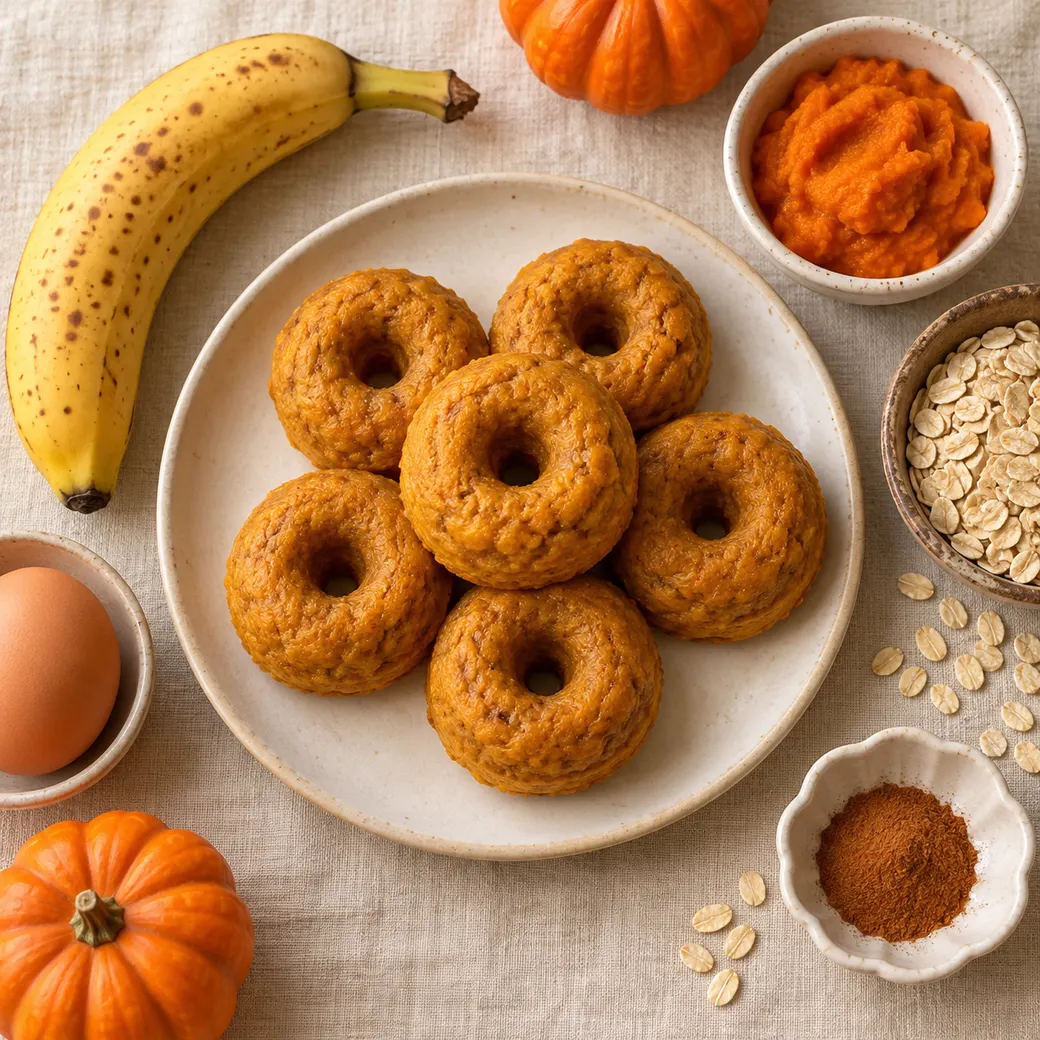
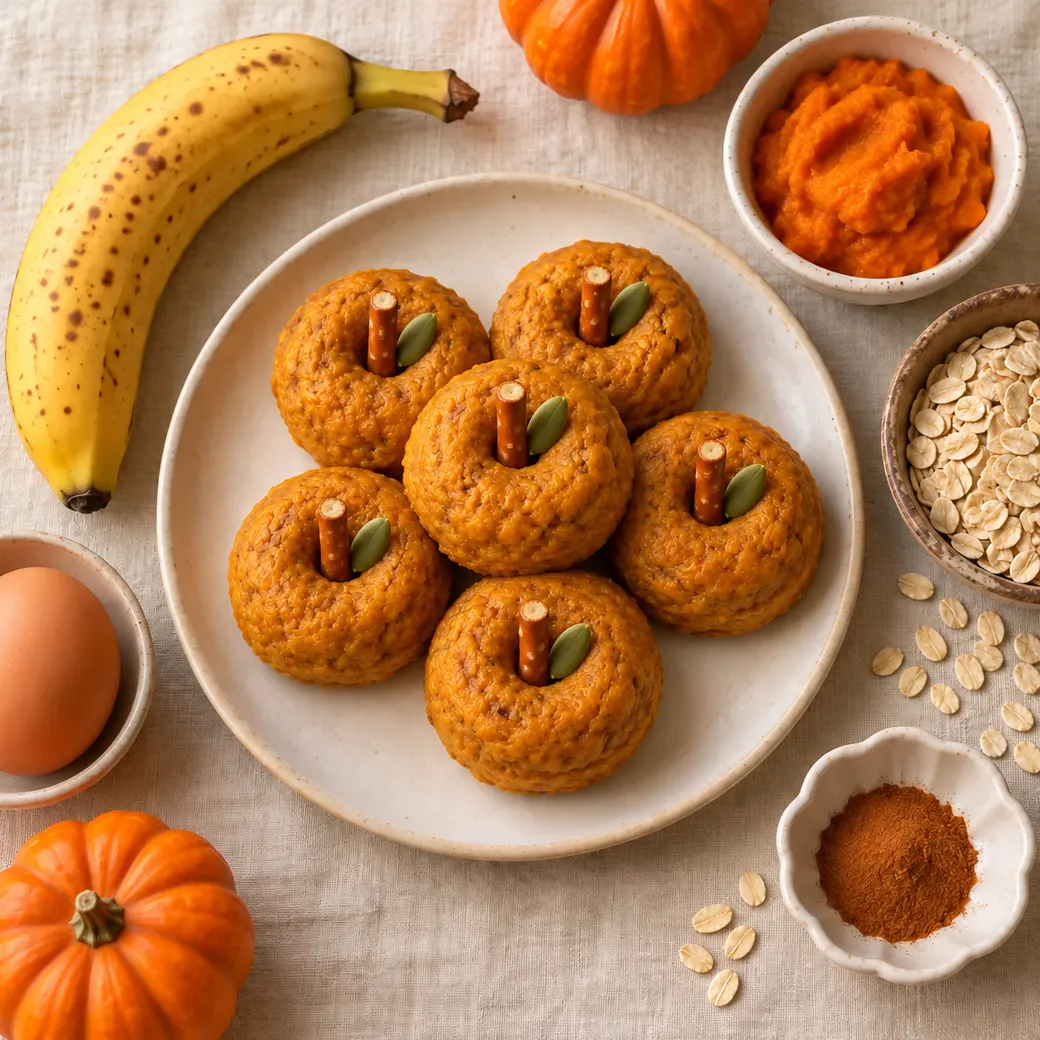
Halloween: Halloween photos first, no number pills, Gummy Worms off the page, three new Halloween looks (#143)
* Halloween: four Halloween photos first, no number pills, Gummy Worms off the page, three new Halloween looks

- Collection grids no longer show a number pill on each recipe photo (every collection).
- The Halloween book page leads with Strawberry Yogurt Ghost Hearts, Jack-o'-Lantern Mango Stars,
  Blueberry Yogurt Bites and Chocolate Pumpkin Protein Tarts.
- Gummy Worms is off the Halloween page (19 recipes shown). Release 1 keeps it, because two paid
  orders protect every delivered recipe, so buyers still find it in their library.
- The make-ahead plan preview swaps Gummy Worms for Protein Fruit Gummies (Friday about 20 min,
  about 1 hour 45 minutes in all). The paid plan in the database is updated to match on deploy.
- Candy Corn Parfaits (ghost faces), Banana Pumpkin Mini Donuts (pretzel stems) and Mini Pumpkin
  Cheesecake Bites (yogurt spiderwebs) get a Halloween photo (ChatGPT Images edit of their own
  photo); the old photo becomes the everyday half of the before-and-after slider. Their Halloween
  step and new times are in the database.

* Tests: the Halloween book page now shows 19 recipes

---------

diff --git a/my-curated-haven-web/src/config/recipe-snapshot.ts b/my-curated-haven-web/src/config/recipe-snapshot.ts
@@ -77,10 +77,10 @@ export const RECIPE_SNAPSHOT: Record<string, RecipeSnapshot> = {
   "veggie-rice-snack-fritters": { title: "Veggie Rice Snack Fritters", minutes: 40, image: "7ba9aed5-da73-42f6-9b1c-7da160fa65f5-v2.png", allergens: ["egg"], freezes: null, tags: { stage: ["1-2y", "2-3y", "3-5y"], meal: ["snack", "lunch"], goal: ["veg-packed", "picky-friendly"], practical: ["make-ahead", "on-the-go"], freeFrom: ["dairy-free", "nut-free", "gluten-free", "vegetarian"] } },
   // Halloween recipes from the owner, added 2026-10-12. Photos live in public/images/recipes/ (a site path,
   // not Supabase Storage). Minutes include required freezing or chilling.
-  "banana-pumpkin-mini-donuts": { title: "Banana Pumpkin Mini Donuts", minutes: 25, image: "/images/recipes/banana-pumpkin-mini-donuts-1040.webp", allergens: ["egg", "wheat"], freezes: "2 months", tags: { stage: ["1-2y", "2-3y"], meal: ["snack", "breakfast"], goal: [], practical: ["freezes", "make-ahead"], freeFrom: ["dairy-free", "nut-free", "vegetarian"] } },
+  "banana-pumpkin-mini-donuts": { title: "Banana Pumpkin Mini Donuts", minutes: 30, image: "/images/recipes/banana-pumpkin-mini-donuts-1040.webp", allergens: ["egg", "wheat"], freezes: "2 months", tags: { stage: ["1-2y", "2-3y"], meal: ["snack", "breakfast"], goal: [], practical: ["freezes", "make-ahead"], freeFrom: ["dairy-free", "nut-free", "vegetarian"] } },
   "sweet-potato-jack-o-lantern-cupcakes": { title: "Sweet Potato Jack-O'-Lantern Cupcakes", minutes: 40, image: "/images/recipes/sweet-potato-jack-o-lantern-cupcakes-1040.webp", allergens: ["egg", "milk", "wheat"], freezes: null, tags: { stage: ["1-2y", "2-3y"], meal: ["snack", "treat"], goal: [], practical: ["make-ahead"], freeFrom: ["nut-free", "vegetarian"] } },
   "berry-ghost-yogurt-bark": { title: "Berry Ghost Yogurt Bark", minutes: 195, image: "/images/recipes/berry-ghost-yogurt-bark-1040.webp", allergens: ["milk"], freezes: "1 month", tags: { stage: ["1-2y", "2-3y"], meal: ["snack", "treat"], goal: [], practical: ["freezes", "make-ahead", "no-cook"], freeFrom: ["egg-free", "nut-free", "gluten-free", "vegetarian"] } },
-  "mini-pumpkin-cheesecake-bites": { title: "Mini Pumpkin Cheesecake Bites", minutes: 125, image: "/images/recipes/mini-pumpkin-cheesecake-bites-1040.webp", allergens: ["egg", "milk", "wheat"], freezes: null, tags: { stage: ["1-2y", "2-3y"], meal: ["snack", "treat"], goal: [], practical: ["make-ahead"], freeFrom: ["nut-free", "vegetarian"] } },
+  "mini-pumpkin-cheesecake-bites": { title: "Mini Pumpkin Cheesecake Bites", minutes: 135, image: "/images/recipes/mini-pumpkin-cheesecake-bites-1040.webp", allergens: ["egg", "milk", "wheat"], freezes: null, tags: { stage: ["1-2y", "2-3y"], meal: ["snack", "treat"], goal: [], practical: ["make-ahead"], freeFrom: ["nut-free", "vegetarian"] } },
   "apple-pie-halloween-pockets": { title: "Apple Pie Halloween Pockets", minutes: 40, image: "/images/recipes/apple-pie-halloween-pockets-1040.webp", allergens: ["egg", "wheat"], freezes: null, tags: { stage: ["1-2y", "2-3y"], meal: ["snack", "treat"], goal: [], practical: ["make-ahead"], freeFrom: ["dairy-free", "nut-free", "vegetarian"] } },
   "jack-o-lantern-peanut-butter-tart": { title: "Jack-O'-Lantern Peanut Butter Tart", minutes: 50, image: "/images/recipes/jack-o-lantern-peanut-butter-tart-1040.webp", allergens: ["peanuts", "milk", "soy"], freezes: null, tags: { stage: ["1-2y", "2-3y"], meal: ["snack", "treat"], goal: [], practical: ["make-ahead", "no-cook"], freeFrom: ["egg-free", "gluten-free", "vegetarian"] } },
   "apple-peanut-butter-smiles": { title: "Apple Peanut Butter Smiles", minutes: 10, image: "/images/recipes/apple-peanut-butter-smiles-1040.webp", allergens: ["peanuts"], freezes: null, tags: { stage: ["1-2y", "2-3y"], meal: ["snack"], goal: [], practical: ["under-15-min", "no-cook"], freeFrom: ["egg-free", "dairy-free", "gluten-free", "vegetarian"] } },
@@ -89,7 +89,7 @@ export const RECIPE_SNAPSHOT: Record<string, RecipeSnapshot> = {
   "mandarin-orange-pumpkins": { title: "Mandarin Orange Pumpkins", minutes: 5, image: "/images/recipes/mandarin-orange-pumpkins-1040.webp", allergens: [], freezes: null, tags: { stage: ["1-2y", "2-3y"], meal: ["snack"], goal: [], practical: ["under-15-min", "no-cook"], freeFrom: ["egg-free", "dairy-free", "nut-free", "gluten-free", "vegetarian", "vegan"] } },
   "monster-energy-balls": { title: "Monster Energy Balls", minutes: 55, image: "/images/recipes/monster-energy-balls-1040.webp", allergens: ["peanuts"], freezes: "2 months", tags: { stage: ["1-2y", "2-3y"], meal: ["snack"], goal: [], practical: ["freezes", "make-ahead", "no-cook"], freeFrom: ["egg-free", "dairy-free", "vegetarian"] } },
   "mummy-banana-pops": { title: "Mummy Banana Pops", minutes: 165, image: "/images/recipes/mummy-banana-pops-1040.webp", allergens: ["milk"], freezes: "1 month", tags: { stage: ["1-2y", "2-3y"], meal: ["snack", "treat"], goal: [], practical: ["freezes", "make-ahead", "no-cook"], freeFrom: ["egg-free", "nut-free", "gluten-free", "vegetarian"] } },
-  "candy-corn-parfaits": { title: "Candy Corn Parfaits", minutes: 10, image: "/images/recipes/candy-corn-parfaits-1040.webp", allergens: ["milk"], freezes: null, tags: { stage: ["1-2y", "2-3y"], meal: ["snack", "treat"], goal: [], practical: ["under-15-min", "no-cook"], freeFrom: ["egg-free", "nut-free", "gluten-free", "vegetarian"] } },
+  "candy-corn-parfaits": { title: "Candy Corn Parfaits", minutes: 12, image: "/images/recipes/candy-corn-parfaits-1040.webp", allergens: ["milk"], freezes: null, tags: { stage: ["1-2y", "2-3y"], meal: ["snack", "treat"], goal: [], practical: ["under-15-min", "no-cook"], freeFrom: ["egg-free", "nut-free", "gluten-free", "vegetarian"] } },
   "gummy-worms": { title: "Gummy Worms", minutes: 130, image: "/images/recipes/gummy-worms-1040.webp", allergens: [], freezes: null, tags: { stage: ["1-2y", "2-3y"], meal: ["snack"], goal: [], practical: ["make-ahead"], freeFrom: ["egg-free", "dairy-free", "nut-free", "gluten-free"] } },
   "protein-fruit-gummies": { title: "Protein Fruit Gummies", minutes: 135, image: "/images/recipes/protein-fruit-gummies-1040.webp", allergens: [], freezes: null, tags: { stage: ["1-2y", "2-3y"], meal: ["snack"], goal: [], practical: ["make-ahead"], freeFrom: ["egg-free", "dairy-free", "nut-free", "gluten-free"] } },
   "spider-peanut-butter-oat-bites": { title: "Spider Peanut Butter Oat Bites", minutes: 50, image: "/images/recipes/spider-peanut-butter-oat-bites-1040.webp", allergens: ["peanuts", "milk"], freezes: "2 months", tags: { stage: ["1-2y", "2-3y"], meal: ["snack", "treat"], goal: [], practical: ["freezes", "make-ahead", "no-cook"], freeFrom: ["egg-free", "vegetarian"] } },

diff --git a/my-curated-haven-web/src/config/everyday-photos.ts b/my-curated-haven-web/src/config/everyday-photos.ts
@@ -4,9 +4,10 @@
  * step taken out, so the two halves line up. A recipe listed here shows the slider in place
  * of its single photo; every other recipe keeps the photo.
  *
- * Only recipes with a real Halloween step are here. The banana pumpkin mini donuts, mini
- * pumpkin cheesecake bites, candy corn parfaits, gummy worms and protein fruit gummies look
- * the same every day, so they have no everyday photo. Sources: docs/implementation/instagram-landing/HALLOWEEN.md.
+ * Only recipes with a real Halloween step are here. Gummy worms and protein fruit gummies look
+ * the same every day, so they have no everyday photo. The donuts, cheesecake bites and parfaits
+ * got their Halloween step on 2026-10-14; their old photo is now the everyday one.
+ * Sources: docs/implementation/instagram-landing/HALLOWEEN.md.
  */
 
 const DIR = "/images/recipes/everyday";
@@ -24,11 +25,14 @@ export const EVERYDAY_PHOTOS: Readonly<Record<string, EverydayPhoto>> = {
   "spider-cracker-bites": photo("spider-cracker-bites", "The same cream cheese cracker sandwiches without legs or eyes"),
   "apple-peanut-butter-smiles": photo("apple-peanut-butter-smiles", "The same apple and peanut butter sandwiches, closed, without the strawberry tongues or apple teeth"),
   "apple-pie-halloween-pockets": photo("apple-pie-halloween-pockets", "The same apple hand pies cut as plain rounds instead of pumpkins"),
+  "banana-pumpkin-mini-donuts": photo("banana-pumpkin-mini-donuts", "The same banana pumpkin donuts without the pretzel stems or seed leaves"),
   "blueberry-yogurt-bites": photo("blueberry-yogurt-bites", "The same blueberry yogurt bites without the white chocolate spiderwebs"),
+  "candy-corn-parfaits": photo("candy-corn-parfaits", "The same parfaits with a plain whipped topping and coconut, without the ghost faces"),
   "chocolate-pumpkin-protein-tarts": photo("chocolate-pumpkin-protein-tarts", "The same chocolate pumpkin tarts without the jack-o'-lantern faces"),
   "jack-o-lantern-mango-stars": photo("jack-o-lantern-mango-stars", "The same mango stars without the chocolate faces or kiwi stems"),
   "jack-o-lantern-peanut-butter-tart": photo("jack-o-lantern-peanut-butter-tart", "The same peanut butter cups without the faces"),
   "mandarin-orange-pumpkins": photo("mandarin-orange-pumpkins", "The same peeled mandarins without the celery stems"),
+  "mini-pumpkin-cheesecake-bites": photo("mini-pumpkin-cheesecake-bites", "The same cheesecake bites with a plain cream cheese swirl, without the spiderwebs"),
   "monster-energy-balls": photo("monster-energy-balls", "The same green energy balls without the eyes"),
   "spider-peanut-butter-oat-bites": photo("spider-peanut-butter-oat-bites", "The same peanut butter oat bites without the chocolate legs or eyes"),
   "strawberry-yogurt-ghost-hearts": photo("strawberry-yogurt-ghost-hearts", "The same strawberry yogurt hearts without the white chocolate ghosts"),

diff --git a/my-curated-haven-web/src/config/collections.ts b/my-curated-haven-web/src/config/collections.ts
@@ -466,7 +466,7 @@ export const SHOWROOM_COLLECTIONS: readonly ShowroomCollection[] = [
     cover: cover("fruit-gummies", 1412, "A berry-red cloth cookbook with a gold-foil gummy mould, heart and star gummies and a strawberry on its cover"),
     refresh: "",
     placeholderPrice: "$6.99",
-    // Placed 2026-10-14: both are also in the Halloween book.
+    // Placed 2026-10-14: both are in the Halloween book's release (Gummy Worms no longer shows on its page).
     recipes: recipes(["gummy-worms", "protein-fruit-gummies"]),
   },
   {
@@ -514,7 +514,13 @@ export const SHOWROOM_COLLECTIONS: readonly ShowroomCollection[] = [
     // Shown only if the live offer can't be read. Owner moved the price from $6.99 to $5.99 on 2026-10-13.
     placeholderPrice: "$5.99",
     // Replaced on 2026-10-12 with the owner's 20 Halloween recipes (above the 8–12 guideline in COLLECTIONS.md, by choice).
+    // 2026-10-14, owner: the four most Halloween-looking photos lead, and Gummy Worms is off this page. Release 1
+    // still holds it (two paid orders), so buyers keep it in their library.
     recipes: recipes([
+      "strawberry-yogurt-ghost-hearts",
+      "jack-o-lantern-mango-stars",
+      "blueberry-yogurt-bites",
+      "chocolate-pumpkin-protein-tarts",
       "berry-ghost-yogurt-bark",
       "mummy-banana-pops",
       "spider-cracker-bites",
@@ -528,13 +534,8 @@ export const SHOWROOM_COLLECTIONS: readonly ShowroomCollection[] = [
       "apple-peanut-butter-smiles",
       "monster-energy-balls",
       "candy-corn-parfaits",
-      "gummy-worms",
       "protein-fruit-gummies",
       "spider-peanut-butter-oat-bites",
-      "strawberry-yogurt-ghost-hearts",
-      "jack-o-lantern-mango-stars",
-      "blueberry-yogurt-bites",
-      "chocolate-pumpkin-protein-tarts",
     ]),
   },
   {

diff --git a/my-curated-haven-web/src/config/halloween.ts b/my-curated-haven-web/src/config/halloween.ts
@@ -223,12 +223,12 @@ export const HALLOWEEN_MAKE_AHEAD_PLAN: MakeAheadPlanEntry = {
   preview: {
     byline: "Inside the Halloween book",
     title: "Your Halloween make-ahead plan",
-    lede: "A party menu of 6 recipes, made across three short sessions so Saturday is calm. About 1 hour 40 minutes of cooking in all, and one shopping list.",
+    lede: "A party menu of 6 recipes, made across three short sessions so Saturday is calm. About 1 hour 45 minutes of cooking in all, and one shopping list.",
     menuHeading: "The party menu",
     menu: [
       { slug: "berry-ghost-yogurt-bark", name: "Berry Ghost Yogurt Bark" },
       { slug: "mummy-banana-pops", name: "Mummy Banana Pops" },
-      { slug: "gummy-worms", name: "Gummy Worms" },
+      { slug: "protein-fruit-gummies", name: "Protein Fruit Gummies" },
       { slug: "witchs-broomsticks", name: "Witch’s Broomsticks" },
       { slug: "spider-cracker-bites", name: "Spider Cracker Bites" },
       { slug: "mandarin-orange-pumpkins", name: "Mandarin Orange Pumpkins" },
@@ -236,7 +236,7 @@ export const HALLOWEEN_MAKE_AHEAD_PLAN: MakeAheadPlanEntry = {
     daysHeading: "Three short sessions",
     days: [
       { dow: "Thu", dom: "29", mon: "Oct", heading: "Freezer night", time: "About 45 min", pill: "freezer" },
-      { dow: "Fri", dom: "30", mon: "Oct", heading: "Fridge day", time: "About 15 min", pill: "fridge" },
+      { dow: "Fri", dom: "30", mon: "Oct", heading: "Fridge day", time: "About 20 min", pill: "fridge" },
       { dow: "Sat", dom: "31", mon: "Oct", heading: "Halloween", time: "About 40 min", pill: "fresh" },
     ],
   },

diff --git a/my-curated-haven-web/tests/e2e/make-ahead-plan.spec.ts b/my-curated-haven-web/tests/e2e/make-ahead-plan.spec.ts
@@ -65,7 +65,7 @@ async function expectPreviewOnly(page: Page) {
   await expect(page.getByText("Spider Cracker Bites")).toBeVisible();
   await expect(page.getByRole("heading", { name: "In the Halloween book" })).toBeVisible();
   await expect(page.getByRole("button", { name: /Buy (now|Collection)/ })).toBeVisible();
-  await expect(page.getByRole("link", { name: "See all 20 recipes" })).toHaveAttribute("href", "/collections/halloween");
+  await expect(page.getByRole("link", { name: "See all 19 recipes" })).toHaveAttribute("href", "/collections/halloween");
   await expect(page.getByRole("checkbox")).toHaveCount(0);
   const rendered = await page.content();
   for (const paid of PAID) expect(rendered, paid).not.toContain(paid);

diff --git a/my-curated-haven-web/src/components/collections/CollectionDetail.tsx b/my-curated-haven-web/src/components/collections/CollectionDetail.tsx
@@ -180,9 +180,6 @@ export function Contents({ model }: { model: DetailModel }) {
                   {recipe.image ? (
                     <Image src={recipe.image} alt="" fill sizes="(min-width: 1024px) 17rem, (min-width: 640px) 30vw, 45vw" />
                   ) : null}
-                  <span className="cl-row-num" aria-hidden="true">
-                    {String(index + 1).padStart(2, "0")}
-                  </span>
                   {access === "free" ? (
                     <span className="cl-row-free" aria-hidden="true">
                       Free

diff --git a/my-curated-haven-web/src/styles/collections.css b/my-curated-haven-web/src/styles/collections.css
@@ -1751,20 +1751,6 @@
   transition: transform 0.7s var(--cl-ease);
 }
 
-.cl-row-num {
-  position: absolute;
-  top: 0.5rem;
-  left: 0.5rem;
-  padding: 0.1rem 0.45rem;
-  border-radius: 999px;
-  background: color-mix(in srgb, var(--cl-paper) 88%, transparent);
-  font-family: var(--font-body);
-  font-size: 0.7rem;
-  font-weight: 600;
-  font-variant-numeric: tabular-nums;
-  color: var(--cloth, var(--cl-ember));
-}
-
 .cl-row-free,
 .cl-row-mark {
   position: absolute;

diff --git a/my-curated-haven-web/tests/e2e/collections.spec.ts b/my-curated-haven-web/tests/e2e/collections.spec.ts
@@ -10,7 +10,7 @@ import { expect, test } from "@playwright/test";
 const LOAD = { waitUntil: "domcontentloaded" } as const;
 
 const COLLECTIONS = [
-  { slug: "halloween", title: "Halloween", recipes: 20 },
+  { slug: "halloween", title: "Halloween", recipes: 19 },
   { slug: "meal-prep", title: "Meal Prep", recipes: 10 },
   { slug: "protein-packs", title: "Protein Packs", recipes: 10 },
 ];

diff --git a/docs/implementation/instagram-landing/HALLOWEEN.md b/docs/implementation/instagram-landing/HALLOWEEN.md
@@ -56,7 +56,7 @@ The street (`HALLOWEEN_STREET` in `src/config/halloween.ts`) is five image layer
 | Ghost pops, mummy scrolls, skeleton next door, making ghosts, goodnight window | Made by the owner in ChatGPT from the prompts in `~/Downloads/halloween-2026/PROMPTS.md`, cropped to 5:4 (window 4:4.4) and compressed to WebP |
 | Ghost pops before (`ghost-pops-before.webp`) | Higgsfield edit of the owner's ghost pops photo with only the eyes removed (2026-10-12), so the slider lines up |
 | Everyday scrolls (`everyday-pizza-scrolls.webp`) | The recipe's own catalog photo, a different shot, so the slider halves do not line up yet; the owner is making a matching before photo |
-| Everyday photos (`public/images/recipes/everyday/<slug>-1040.webp`, listed in `src/config/everyday-photos.ts`) | ChatGPT Images edits of each recipe's own photo with only the Halloween step removed (eyes, faces, webs, legs, stems, the pumpkin shape, the broom fringe), 2026-10-13, so the slider lines up. 15 of the 20 recipes; the banana pumpkin mini donuts, mini pumpkin cheesecake bites, candy corn parfaits, gummy worms and protein fruit gummies have no Halloween step to remove. They feed the three sliders here and the slider at the top of each recipe's own page (`/recipes/<slug>`), which prints as the Halloween photo alone. Originals in `docs/art/generated/` |
+| Everyday photos (`public/images/recipes/everyday/<slug>-1040.webp`, listed in `src/config/everyday-photos.ts`) | ChatGPT Images edits of each recipe's own photo with only the Halloween step removed (eyes, faces, webs, legs, stems, the pumpkin shape, the broom fringe), 2026-10-13, so the slider lines up. 15 of the 20 recipes at first; on 2026-10-14 the banana pumpkin mini donuts (pretzel stems), mini pumpkin cheesecake bites (spiderwebs) and candy corn parfaits (ghost faces) got a Halloween step and a new ChatGPT Images photo, and their old photo became the everyday one, so 18. Gummy worms and protein fruit gummies have no Halloween step. They feed the three sliders here and the slider at the top of each recipe's own page (`/recipes/<slug>`), which prints as the Halloween photo alone. Originals in `docs/art/generated/` |
 
 ## Analytics
 
